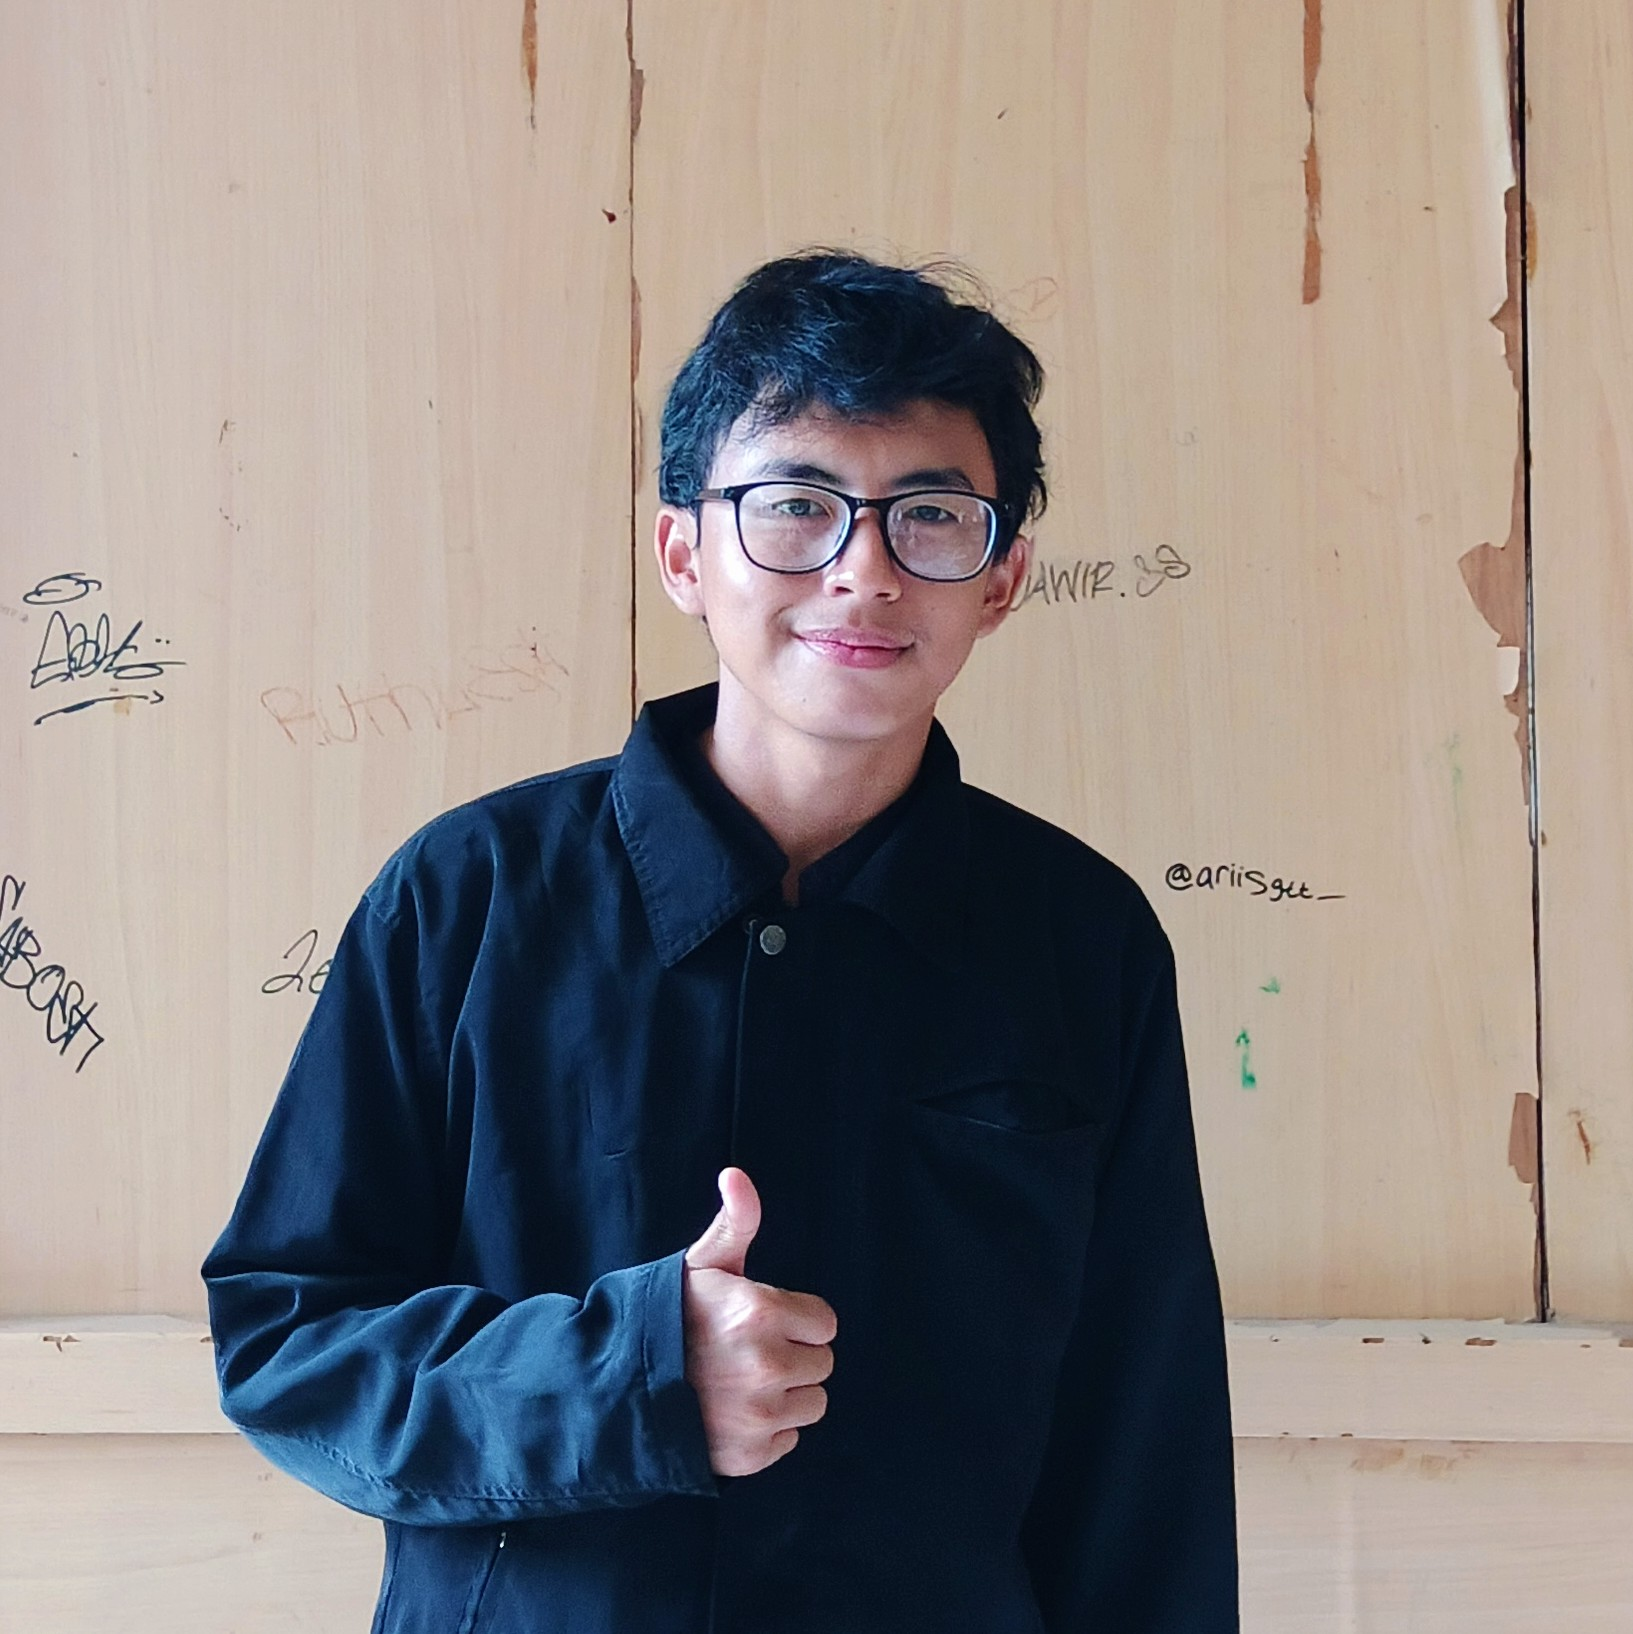
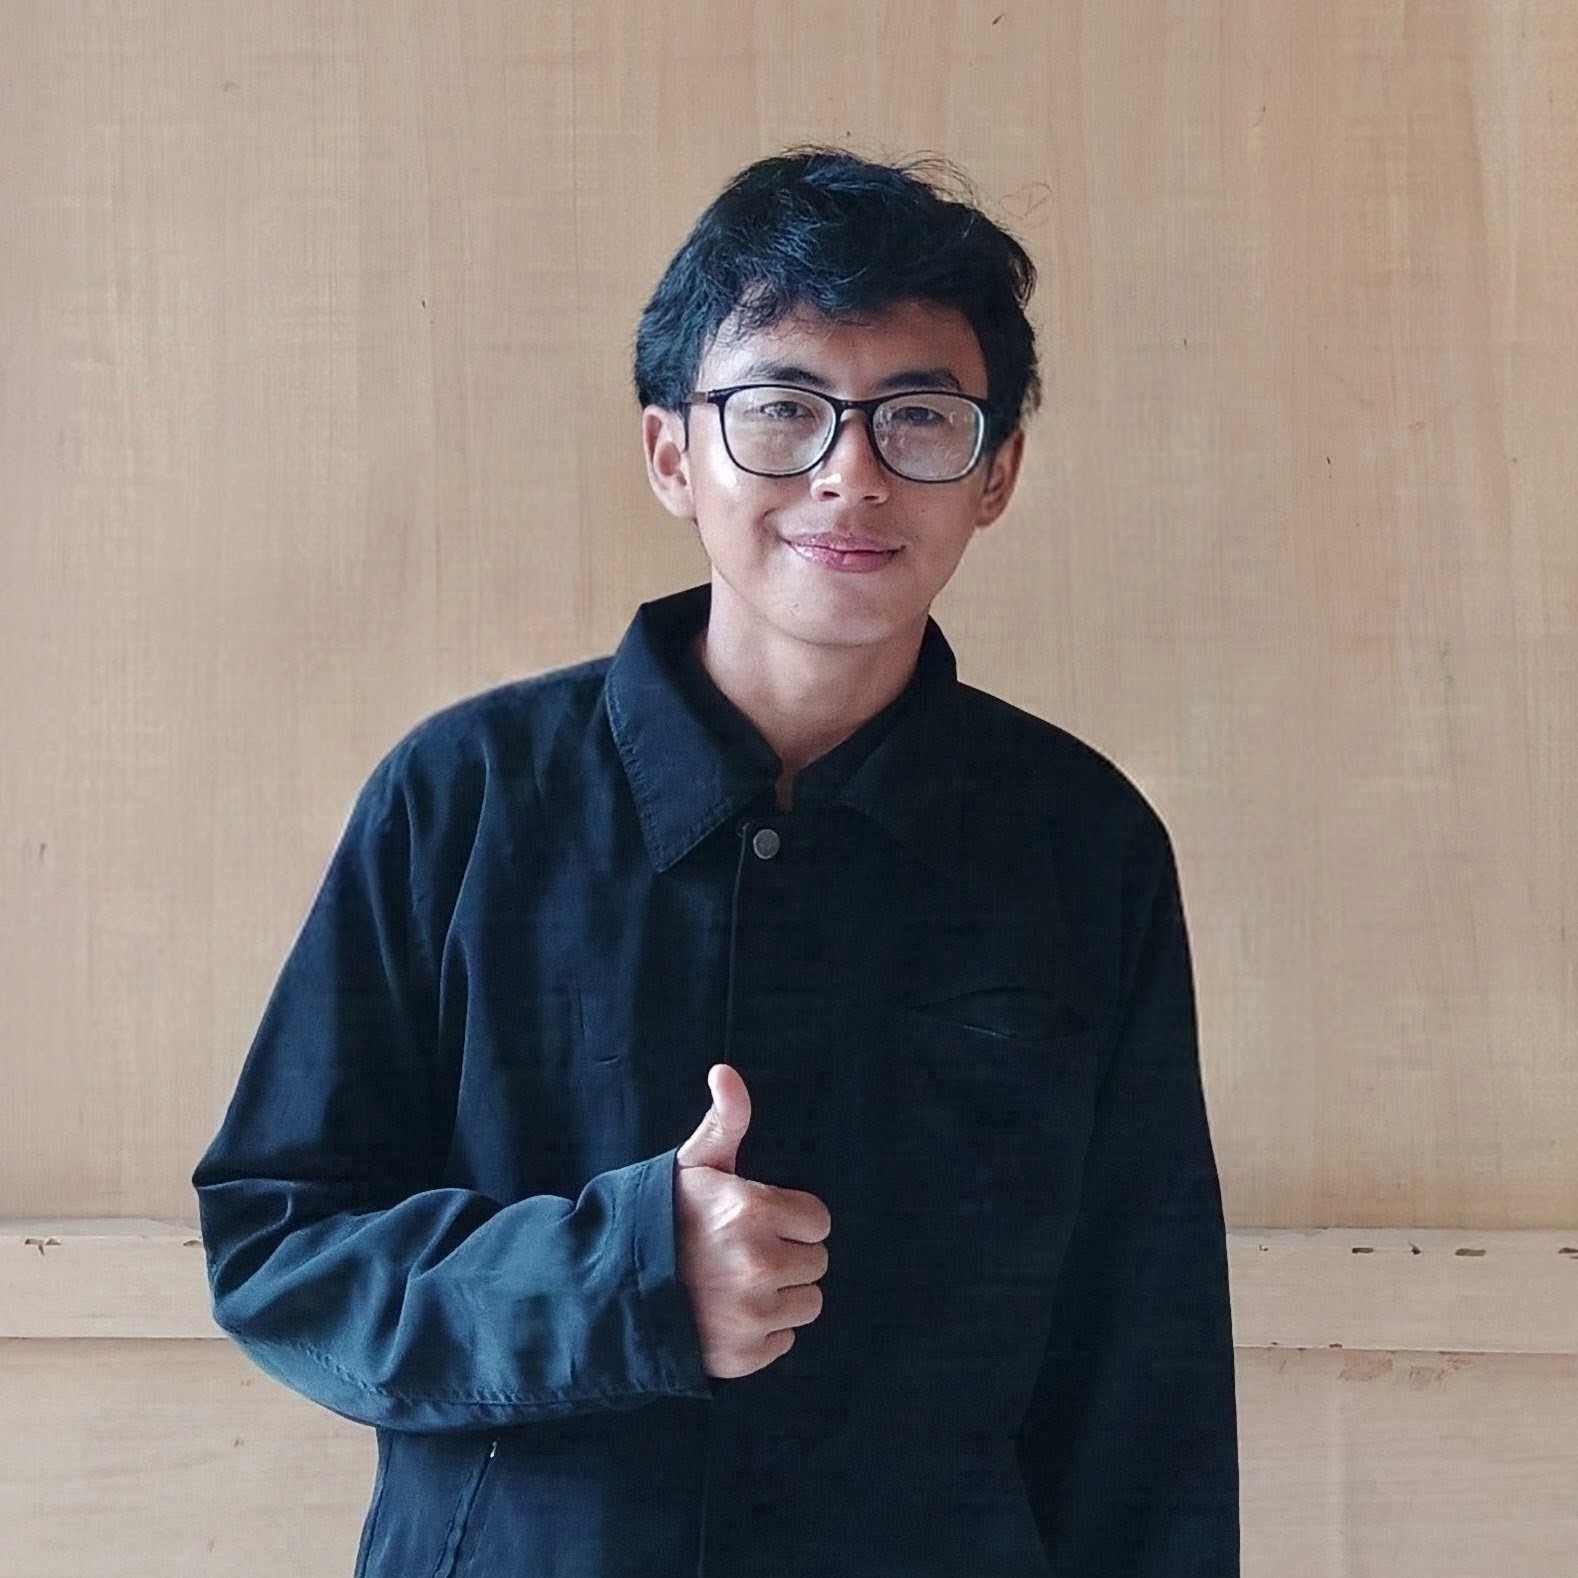
update major

diff --git a/index.html b/index.html
@@ -95,14 +95,31 @@
   <div class="about-content">
     <h2 class="section-title">My Projects</h2>
     <div class="projects-grid">
-      <a href="https://github.com/nextarz/MyAnimeList-tracker" target="_blank" rel="noopener noreferrer" class="project-link">
+      <a href="https://github.com/nextarz/Puzzel-game" target="_blank" rel="noopener noreferrer" class="project-link">
+        <div class="project-card">
+          <div class="project-image">
+            <img src="images/project1.png" alt="Portfolio" />
+          </div>
+          <div class="project-info">
+            <h3>Puzzle 3X3</h3>
+            <p>🎮 Anime picture puzzles build using javascript. I hope you enjoy.</p>
+            <div class="project-tags">
+              <span class="tag">HTML5</span>
+              <span class="tag">CSS3</span>
+              <span class="tag">JS</span>
+              <span class="tag">API</span>
+            </div>
+          </div>
+        </div>
+      </a>
+	  <a href="https://github.com/nextarz/edocoin" target="_blank" rel="noopener noreferrer" class="project-link">
         <div class="project-card">
           <div class="project-image">
             <img src="images/project2.png" alt="Portfolio" />
           </div>
           <div class="project-info">
-            <h3>MyAnimeList tracker</h3>
-            <p>📚 A simple anime tracker website built using the MyAnimeList API</p>
+            <h3>Money Management</h3>
+            <p>💰 a website to manage finances using a spreadsheet script system as its database </p>
             <div class="project-tags">
               <span class="tag">HTML5</span>
               <span class="tag">CSS3</span>
@@ -119,7 +136,7 @@
           </div>
           <div class="project-info">
             <h3>$NGELAG Coins</h3>
-            <p>💲NGELAG is an absurd Solana memecoin inspired by life laggy moments</p>
+            <p>💲 NGELAG is an absurd Solana memecoin inspired by life laggy moments</p>
             <div class="project-tags">
               <span class="tag">HTML5</span>
               <span class="tag">CSS3</span>

diff --git a/style.css b/style.css
@@ -343,11 +343,10 @@ section.active {
 }
 
 .projects-grid {
-  display: flex;
-  flex-wrap: wrap;
-  gap: 40px;
+  display: grid;
+  grid-template-columns: repeat(3, 1fr);
+  gap: 30px;
   margin-top: 50px;
-  justify-content: flex-start;
 }
 
 .project-card {
@@ -357,9 +356,7 @@ section.active {
   transition: all 0.3s ease;
   display: flex;
   flex-direction: column;
-  flex: 0 1 calc(33.333% - 27px);
-  min-width: 320px;
-  max-width: 400px;
+  width: 100%;
   will-change: transform;
 }
 
@@ -685,6 +682,10 @@ html {
 }
 
 @media (max-width: 1024px) {
+  .projects-grid {
+    grid-template-columns: repeat(2, 1fr);
+  }
+  
   nav {
     padding: 20px 50px;
   }
@@ -875,15 +876,12 @@ html {
   }
 
   .projects-grid {
-    flex-direction: column;
-    gap: 30px;
-    margin-top: 35px;
+    grid-template-columns: 1fr;
+	gap: 30px;
+	margin-top: 35px;
   }
 
   .project-card {
-    flex: 1 1 100%;
-    min-width: auto;
-    max-width: 100%;
     border-radius: 12px;
   }
 

diff --git a/script.js b/script.js
@@ -182,7 +182,6 @@ function Portfolio() {
             >
               <div className="project-card">
                 <div className="project-image">
-                  {/* Ganti dengan: <img src="images/project2.jpg" alt="Portfolio" /> */}
                   <img src="images/project2.png" alt="Portfolio" />
                 </div>
                 <div className="project-info">
@@ -209,7 +208,6 @@ function Portfolio() {
             >
               <div className="project-card">
                 <div className="project-image">
-                  {/* Ganti dengan: <img src="images/project3.jpg" alt="Dashboard" /> */}
                   <img src="images/project3.png" alt="$NGELAG" />
                 </div>
                 <div className="project-info">
